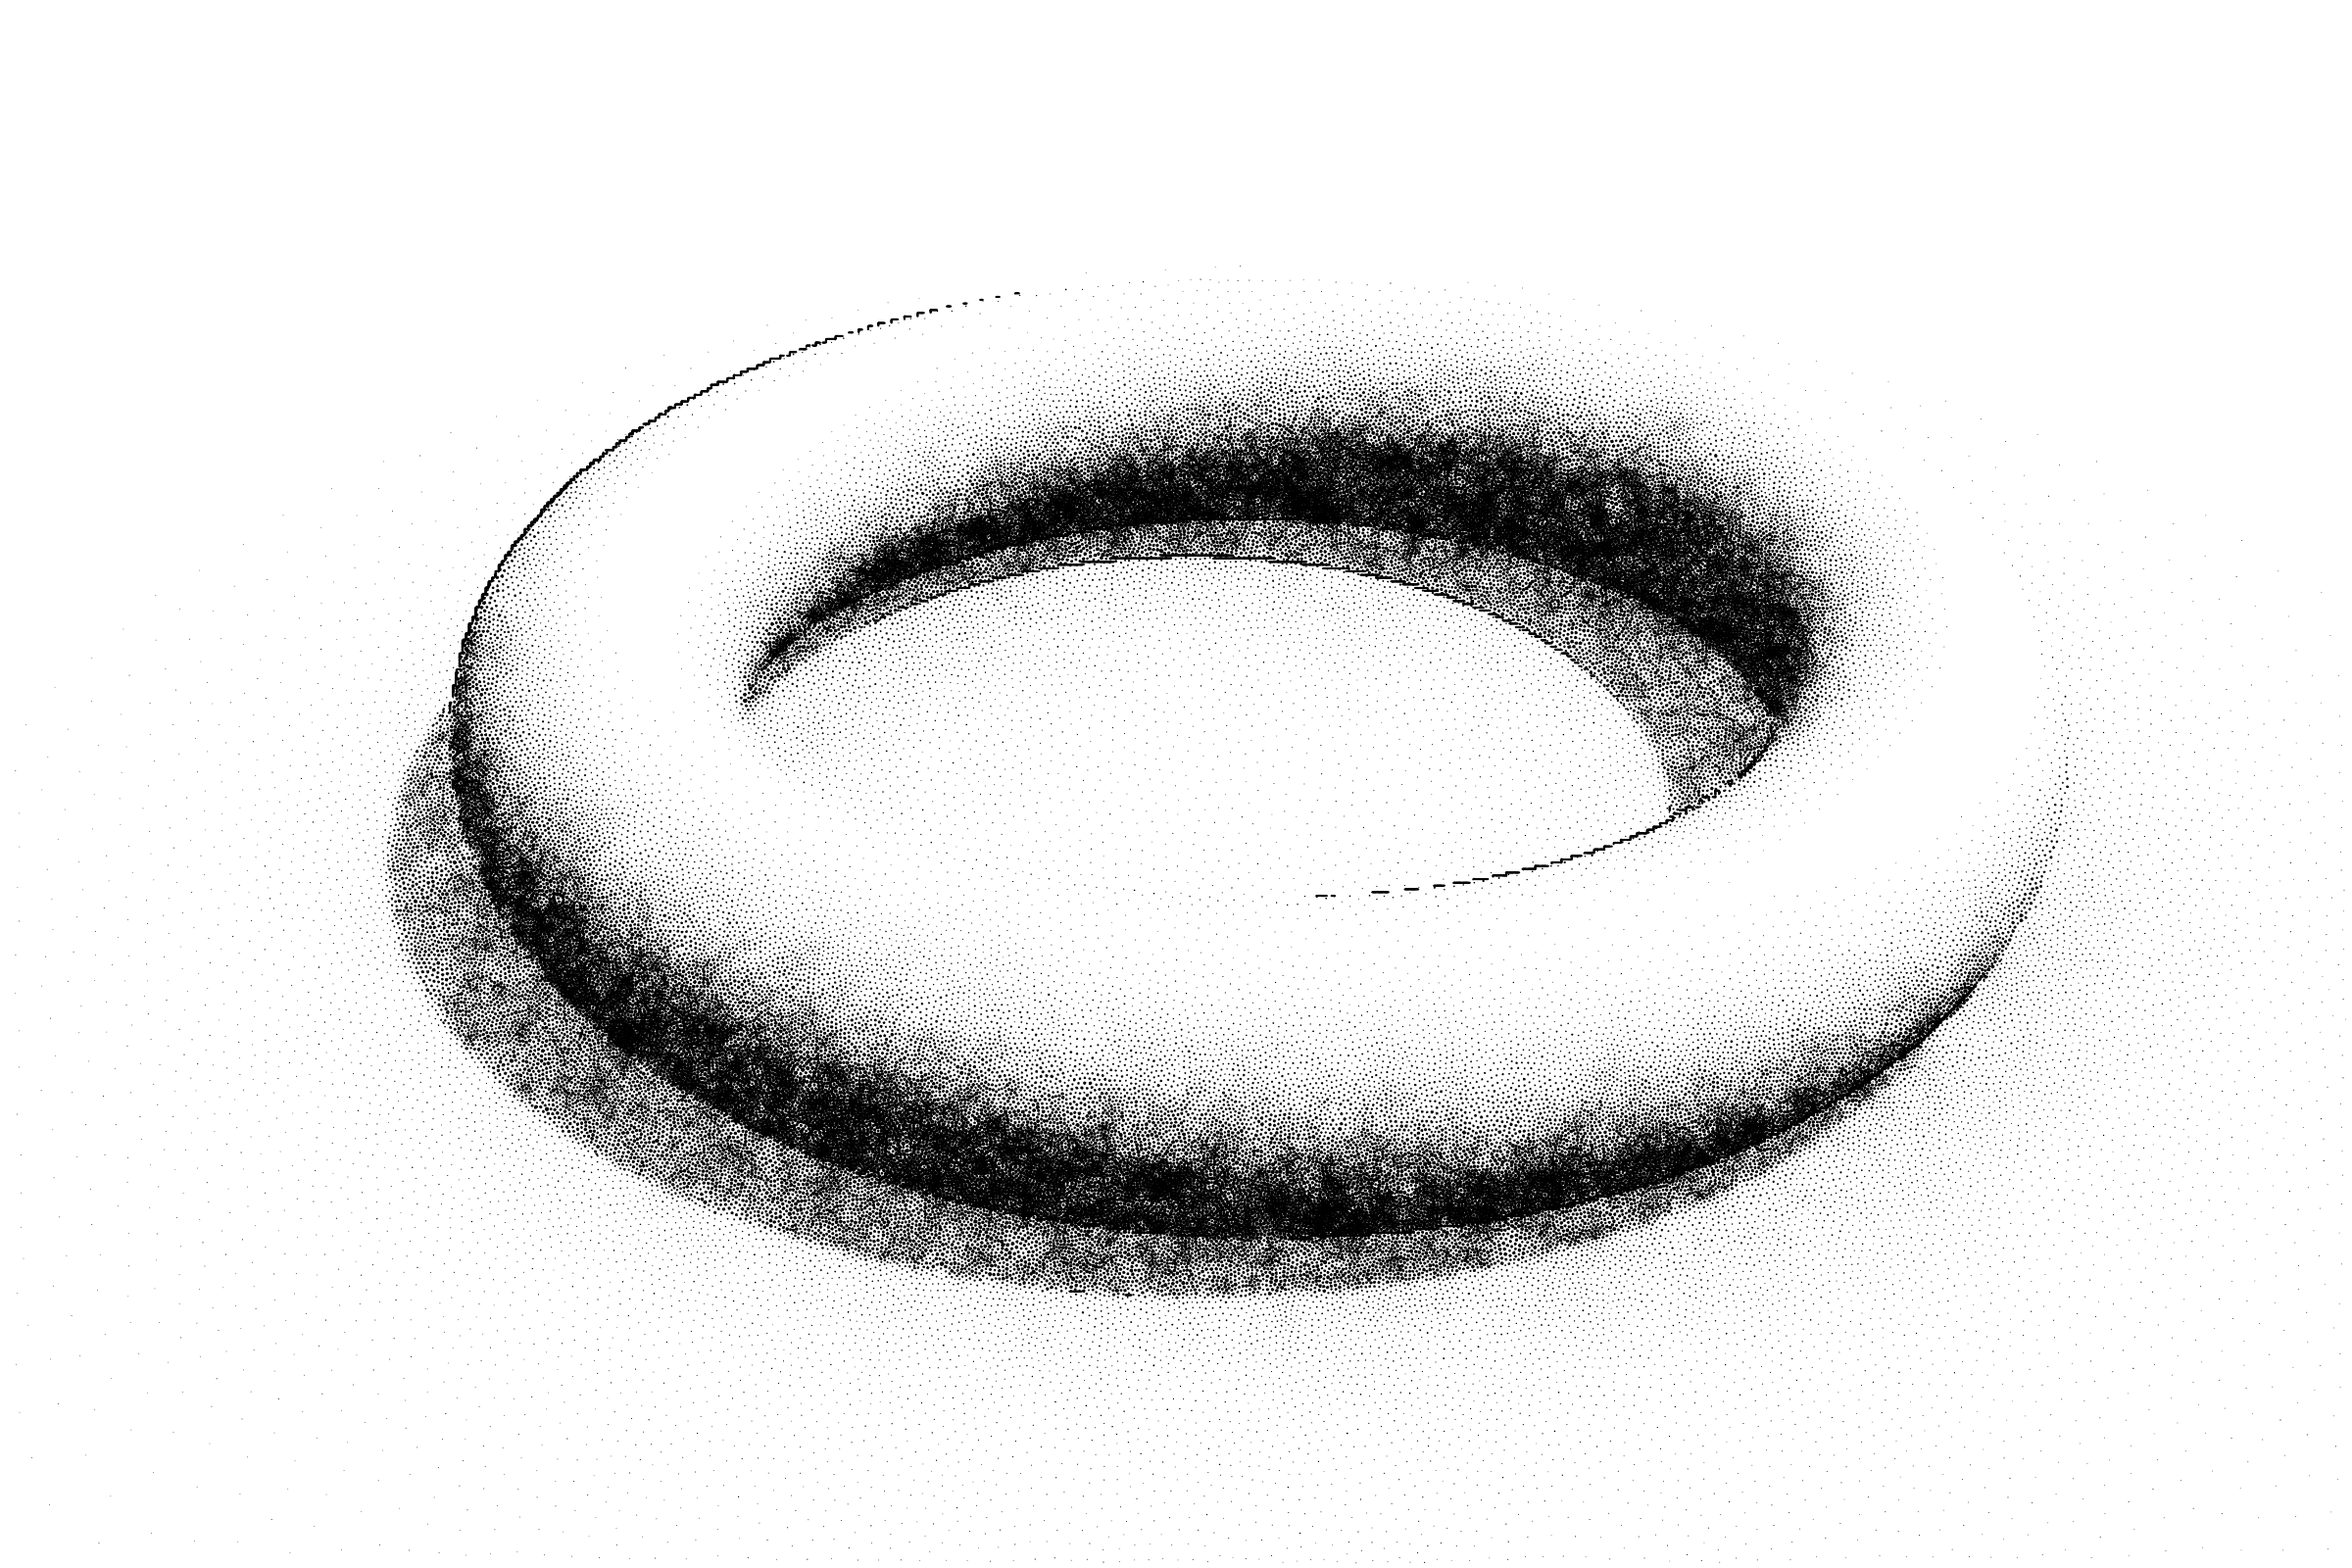
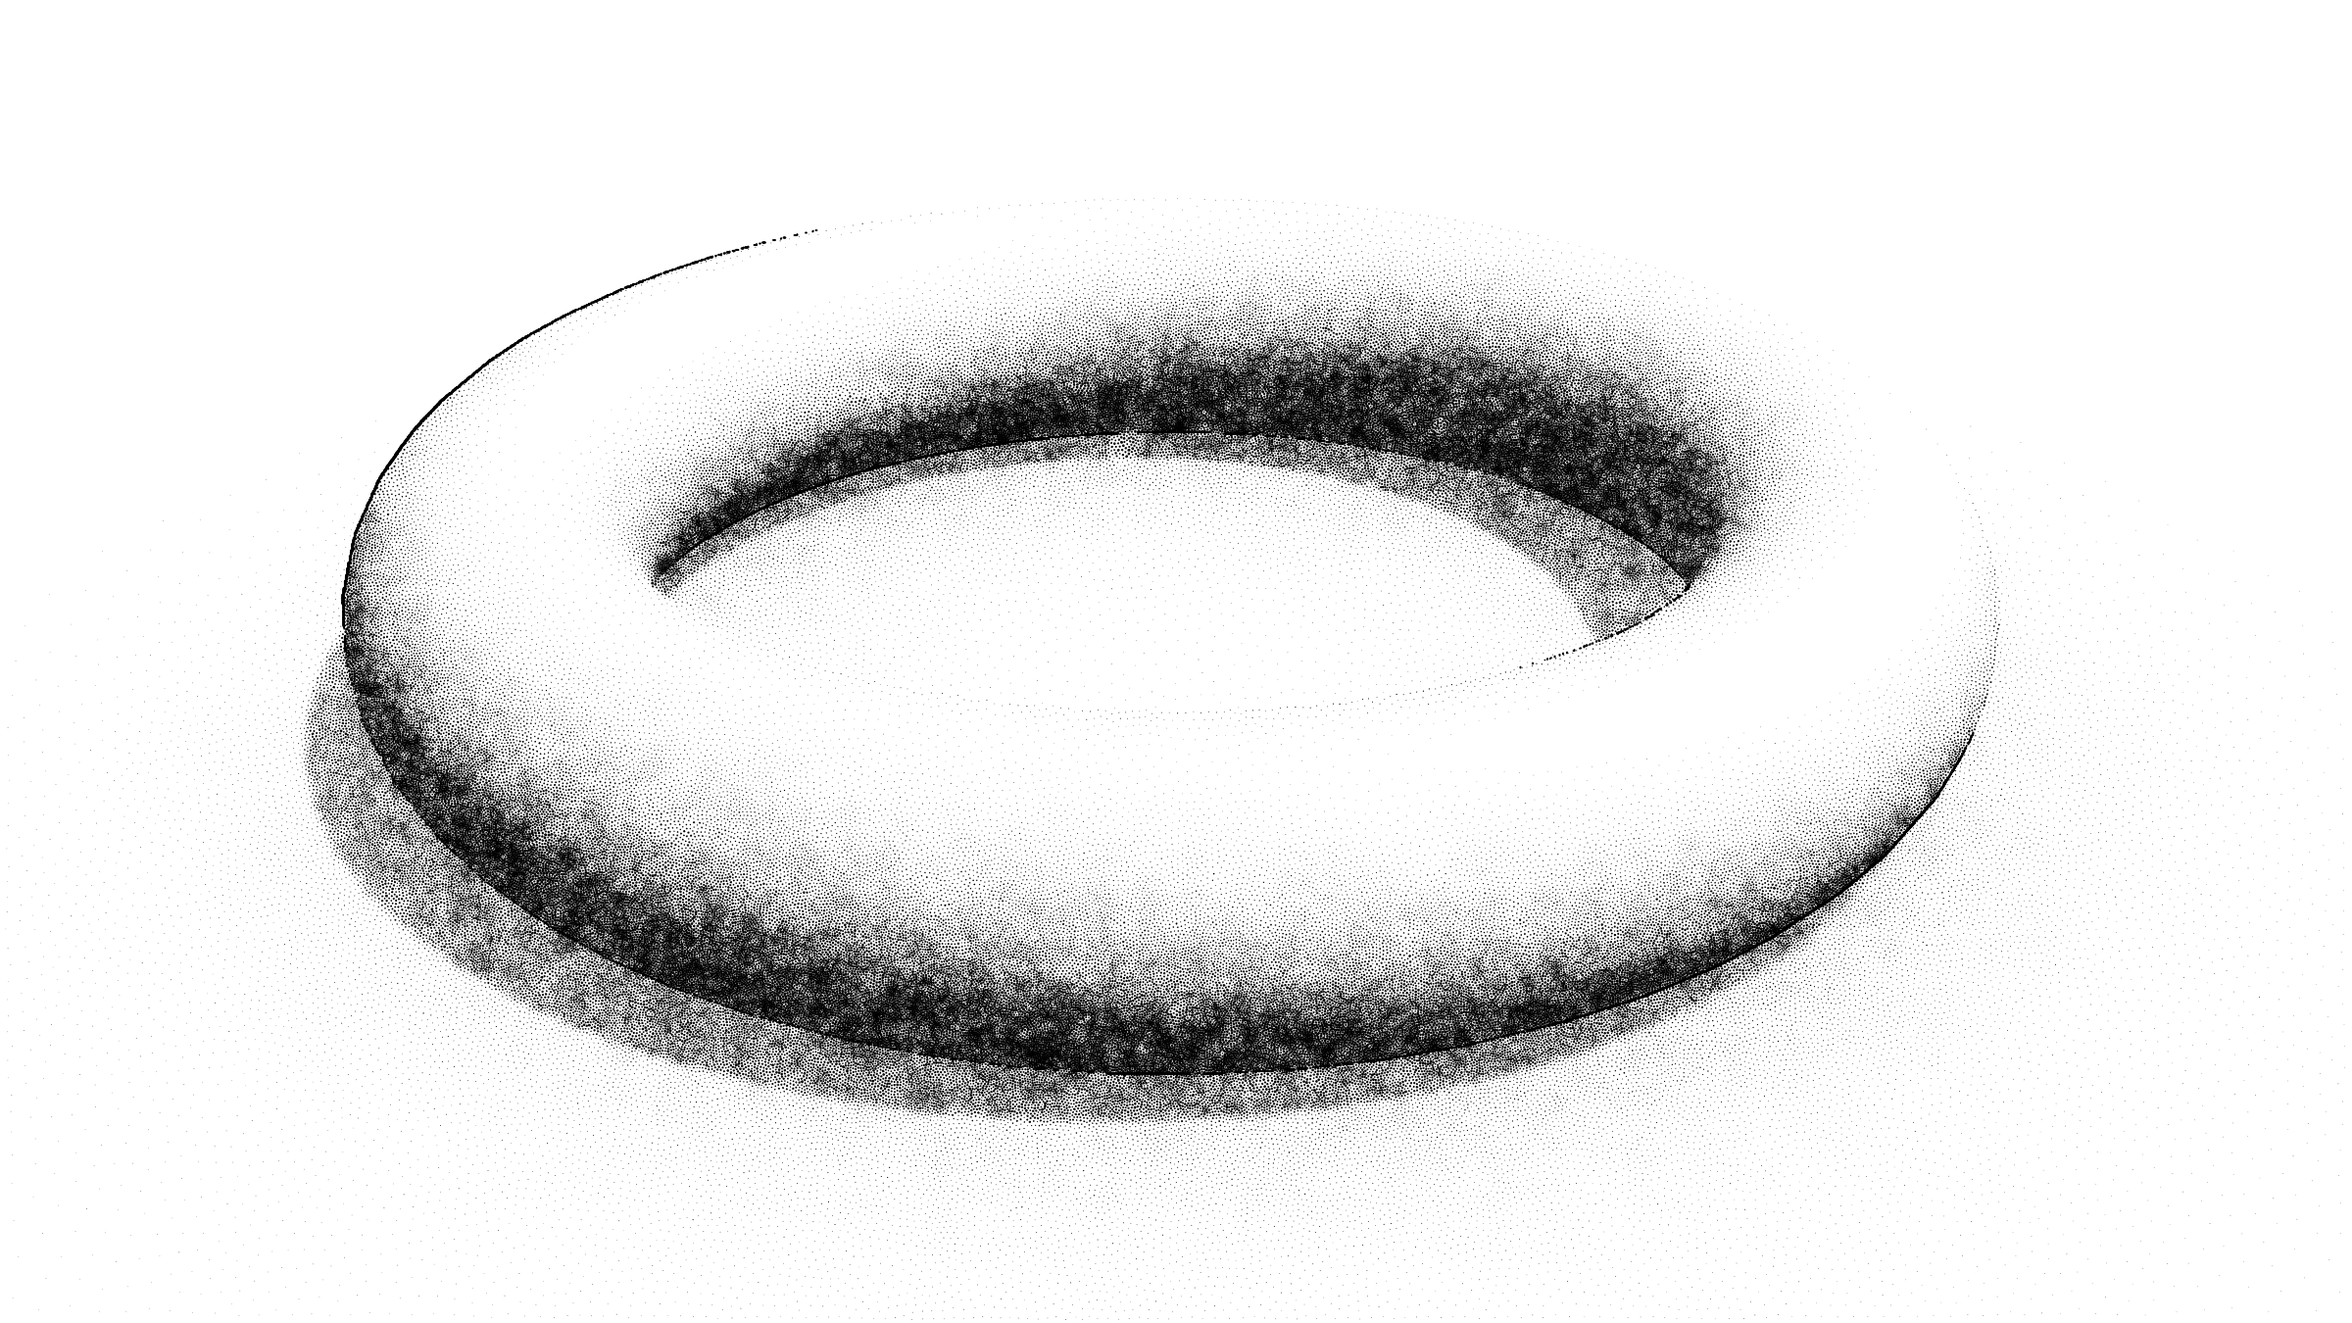
update readme

diff --git a/README.md b/README.md
@@ -1,8 +1,7 @@
 
 # Rhino Grasshopper-Compatible Stippling Processor
 
-![](data/donut.png)
-![](data/donut-stipple.png)
+![](data/donut-montage.png)
 
 
 This is a replication of the following article:
